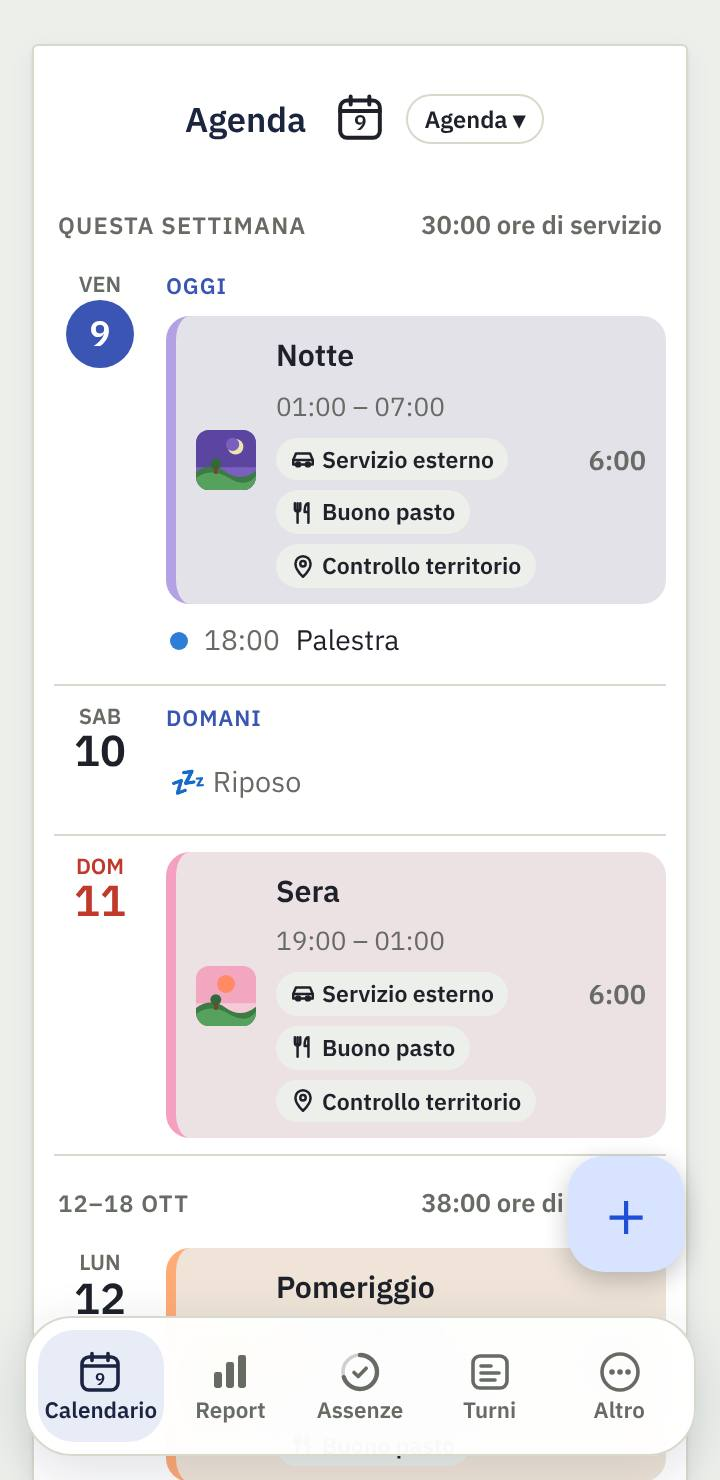
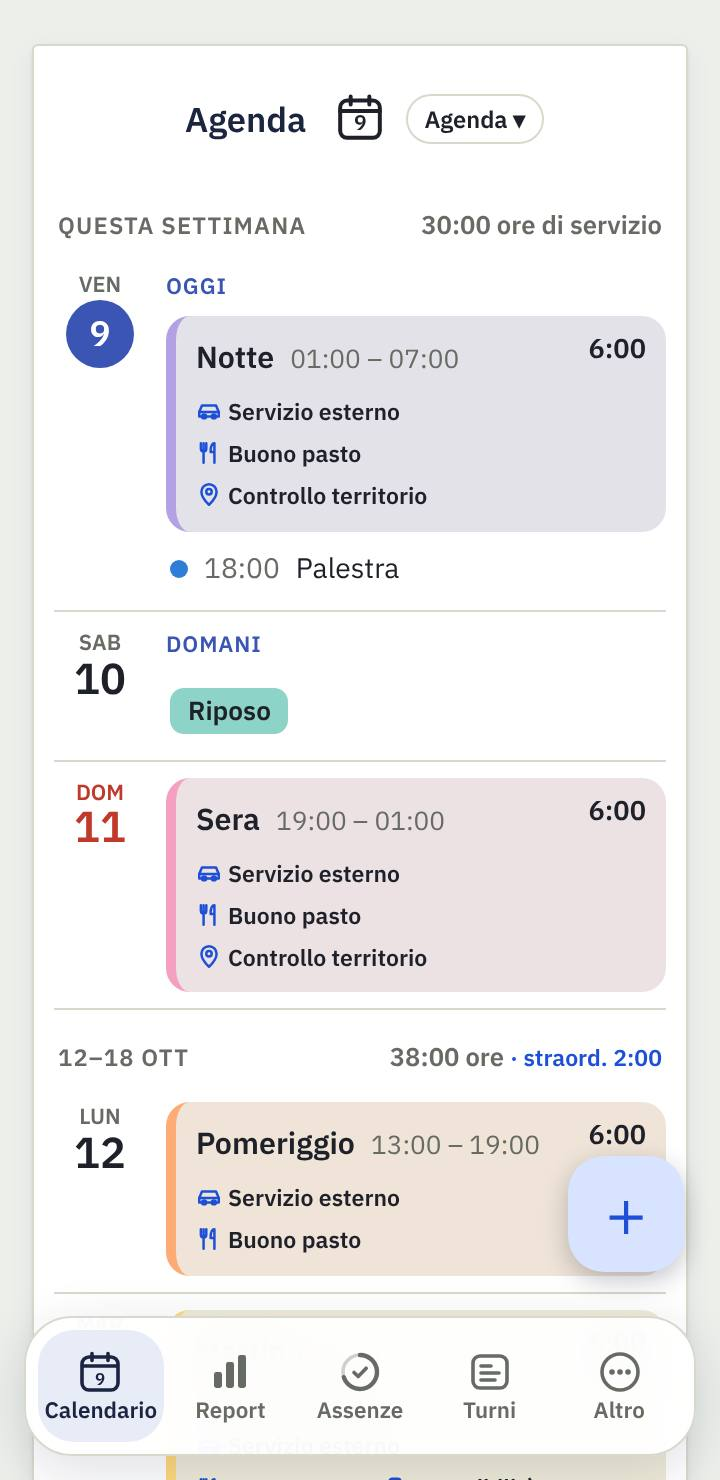
Turni 3.8.13: privacy per Detta a voce, guida con Detta a voce, Settimana e Agenda
Claude-Session: https://claude.ai/code/session_01PSeREU5gDDB7bRrUAU7GkJ

diff --git a/guida-turni.html b/guida-turni.html
@@ -23,8 +23,8 @@ a{color:#2E4A8F}
 @media(max-width:600px){.sez{grid-template-columns:1fr}.sez img{width:min(240px,70vw);margin:4px auto 0}.tab td:first-child{white-space:normal}}
 </style></head><body>
 <h1>Guida a Turni & Accessorio PS</h1>
-<p class="agg">Come si usa l'app, passo per passo · aggiornata alla versione 3.8.12</p>
-<nav><a href="#inizio">Primi passi</a><a href="#calendario">Calendario</a><a href="#giorno">Il giorno e le indennità</a><a href="#sequenza">Turni</a><a href="#report">Report</a><a href="#assenze">Assenze</a><a href="#altro">Altro</a><a href="#promemoria">Promemoria e widget</a><a href="#backup">Backup</a><a href="#domande">Domande</a></nav>
+<p class="agg">Come si usa l'app, passo per passo · aggiornata alla versione 3.8.13</p>
+<nav><a href="#inizio">Primi passi</a><a href="#calendario">Calendario</a><a href="#voce">Detta a voce</a><a href="#giorno">Il giorno e le indennità</a><a href="#sequenza">Turni</a><a href="#report">Report</a><a href="#assenze">Assenze</a><a href="#altro">Altro</a><a href="#promemoria">Promemoria e widget</a><a href="#backup">Backup</a><a href="#domande">Domande</a></nav>
 
 <h2 id="inizio">1. Primi passi</h2>
 <div class="sez"><div>
@@ -42,13 +42,13 @@ a{color:#2E4A8F}
 <h2 id="calendario">2. Calendario</h2>
 <div class="sez"><div>
 <ul>
-<li><b>Tocca un giorno</b> per vederlo sotto il calendario. <b>Tocca il turno</b> del giorno (la riga con la barra colorata) per aprire il giorno completo (vedi il capitolo successivo).</li>
-<li>Il pulsante <b>＋</b> in basso a destra apre: <b>Evento</b>, <b>Turno o assenza</b> (turno, assenza o indennità; "Rientro" aggiunge un secondo turno nello stesso giorno), <b>Straordinario</b> e <b>Modifica il giorno</b>.</li>
+<li><b>Tocca un giorno</b> per vederlo sotto il calendario. <b>Tocca il turno</b> del giorno (la riga con la barra colorata) per aprire il giorno completo (vedi il capitolo 4).</li>
+<li>Il pulsante <b>＋</b> in basso a destra apre: <b>Detta a voce</b> (vedi sotto), <b>Evento</b>, <b>Turno o assenza</b> (turno, assenza o indennità; "Rientro" aggiunge un secondo turno nello stesso giorno), <b>Straordinario</b> e <b>Modifica il giorno</b>.</li>
 <li><b>Scorri col dito</b> a destra o a sinistra per cambiare mese (o settimana, o giorno, a seconda della vista). Il pulsante con il numero di oggi in alto riporta subito a <b>oggi</b>.</li>
 <li>Sotto il giorno selezionato vedi anche il <b>nome della festività</b> (Natale, Pasqua, 2 giugno…).</li>
 <li>Se cambi o cancelli un turno per sbaglio, tocca <b>Annulla</b> nell'avviso che compare in basso: il calendario torna com'era.</li>
 <li>Dal pulsantino <b>Mese ▾</b>, con <b>Condividi il mese</b> mandi il calendario del mese come immagine (WhatsApp, email…).</li>
-<li>Con il pulsantino <b>Mese ▾</b> in alto scegli la vista: <b>Giorno</b> (la giornata a ore), <b>Settimana</b> (un giorno per riga, con le ore della settimana), <b>Mese</b> o <b>Agenda</b>. L'app ricorda l'ultima scelta.</li>
+<li>Con il pulsantino <b>Mese ▾</b> in alto scegli la vista: <b>Giorno</b> (la giornata a ore), <b>Settimana</b> (un giorno per riga con orario, indennità, straordinario, servizio svolto ed eventi, e il totale delle ore), <b>Mese</b> o <b>Agenda</b>. L'app ricorda l'ultima scelta.</li>
 <li><b>Evento</b> aggiunge visite, corsi, appuntamenti, anche ripetuti, con promemoria. Tocca un'ora nella giornata per scegliere l'orario. In <b>Altre opzioni</b> trovi colore, luogo, note e <b>Suona anche in silenzioso</b>: 10 secondi di suono e vibrazione, anche con il telefono in silenzioso.</li>
 <li>I giorni del mese prima e dopo si vedono sbiaditi; toccandoli si passa a quel mese con il giorno già selezionato.</li>
 </ul>
@@ -57,10 +57,26 @@ a{color:#2E4A8F}
 <p>Ogni casella mostra il turno (Sera, Pom., Notte…) e, se c'è, l'evento. Le indennità del giorno le vedi toccando il giorno, scritte per esteso nel riquadro sotto il calendario (per esempio "2 buoni pasto"), e nell'agenda.</p>
 <h3>Agenda</h3>
 <div class="sez"><div>
-<p>Dal pulsantino <b>Mese ▾</b> scegli <b>Agenda</b> (ha preso il posto di "Prossimi 7 giorni"): i prossimi 14 giorni in elenco, con turno, orario, ore, indennità ed eventi e il totale delle ore di ogni settimana.</p>
+<p>Dal pulsantino <b>Mese ▾</b> scegli <b>Agenda</b> (ha preso il posto di "Prossimi 7 giorni"): i prossimi 14 giorni in elenco, con turno, orario, ore, indennità, servizio svolto, festività ed eventi e il totale delle ore di ogni settimana.</p>
+<p>In Settimana e in Agenda lo <b>straordinario</b> si vede a parte: per esempio <b>6:00 +2:00</b> vuol dire 6 ore di turno e 2 di straordinario. Toccando un evento si apre per modificarlo.</p>
 </div><img src="turni/guida/agenda.jpg" alt="Agenda dei prossimi 14 giorni" loading="lazy"></div>
 
-<h2 id="giorno">3. Il giorno e le indennità</h2>
+<h2 id="voce">3. Detta a voce</h2>
+<div class="sez"><div>
+<p>Tocca <b>＋ → Detta a voce</b> e parla. L'app ti mostra cosa ha capito: controlli, togli con ✕ le righe che non vanno e tocchi <b>Salva</b>. Niente viene salvato prima. Se sbagli, c'è <b>Annulla</b>.</p>
+<p>Puoi dire per esempio:</p>
+<ul>
+<li><b>Turni</b>: "domani notte", "lunedì riposo, martedì mattina", "il 20 dalle 8 alle 14". Vale il nome dei tuoi turni.</li>
+<li><b>Assenze</b>: "ferie dal 3 al 10 dicembre" (i giorni di riposo restano riposi e l'app ti dice quanto congedo ti resta), "venerdì riposo compensativo", "lunedì 104".</li>
+<li><b>Straordinario</b>: "oggi straordinario 2 ore dopo", "domani un'ora e mezza di straordinario prima".</li>
+<li><b>Indennità</b>: "domani sera con reperibilità", "servizio esterno".</li>
+<li><b>Eventi</b>: "giovedì alle 10 dentista", "sabato compleanno di Marco".</li>
+</ul>
+<p>Più cose insieme vanno bene: "ferie dal 3 al 10 dicembre, giovedì alle 10 dentista e oggi straordinario 2 ore dopo". Senza un giorno, vale il giorno selezionato nel calendario.</p>
+<div class="cons">🔒 La voce è riconosciuta <b>sul telefono, senza internet</b>, e l'app non salva l'audio. Se manca l'italiano per l'uso senza internet, l'app ti spiega come scaricarlo (si fa una volta sola); oppure puoi scegliere <b>Usa internet per questa volta</b>. La prima volta Android chiede il permesso del microfono.</div>
+</div><img src="turni/guida/voce.jpg" alt="Detta a voce: Ho capito così" loading="lazy"></div>
+
+<h2 id="giorno">4. Il giorno e le indennità</h2>
 <div class="sez"><div>
 <p>Toccando il turno del giorno si apre la scheda del giorno. In alto scegli <b>Turno</b>, <b>Riposo</b> o <b>Assenza</b>.</p>
 <ul>
@@ -89,7 +105,7 @@ a{color:#2E4A8F}
 </table>
 <p class="nota">Gli importi sono quelli delle <a href="tabelle-turni.html">tabelle ufficiali</a>. La produttività collettiva arriva una volta l'anno, a luglio, in base ai giorni di presenza dell'anno prima.</p>
 
-<h2 id="sequenza">4. Turni</h2>
+<h2 id="sequenza">5. Turni</h2>
 <div class="sez"><div>
 <h3 style="margin-top:0">Turni automatici</h3>
 <p>In <b>Turni → Genera turni automaticamente</b>:</p>
@@ -121,7 +137,7 @@ a{color:#2E4A8F}
 </ol>
 <div class="cons">💡 Prima crea un calendario a parte chiamato "Turni" e importa lì: se cambi turnazione, lo cancelli e lo rifai senza toccare il resto. Se ti arriva un'email prima di ogni turno, la manda Google Calendar: si toglie dalle "Notifiche evento" di quel calendario.</div>
 
-<h2 id="report">5. Report</h2>
+<h2 id="report">6. Report</h2>
 <div class="sez"><div>
 <ul>
 <li>In alto: quanto <b>arriva sul conto</b> nel mese, con stipendio, indennità e tasse. Con ‹ › cambi mese.</li>
@@ -142,7 +158,7 @@ a{color:#2E4A8F}
 </ul>
 </div><img src="turni/guida/cedolino.jpg" alt="Cedolino stimato" loading="lazy"></div>
 
-<h2 id="assenze">6. Assenze</h2>
+<h2 id="assenze">7. Assenze</h2>
 <div class="sez"><div>
 <ul>
 <li>In alto i <b>Giorni di partenza</b>, con <b>Modifica</b>.</li>
@@ -174,7 +190,7 @@ a{color:#2E4A8F}
 </table>
 <p>Con <b>Nuova assenza</b> in alto (o <b>＋ Aggiungi un'assenza tua</b> in fondo) crei una voce tua: poi nella sua scheda le dai nome e quanto spetta.</p>
 
-<h2 id="altro">7. Altro</h2>
+<h2 id="altro">8. Altro</h2>
 <div class="sez"><div>
 <ul>
 <li><b>Anagrafica</b>: qualifica (con il distintivo del grado), anni, regione, addizionale comunale, famiglia, sindacato con la quota al mese; facoltativi il reddito e l'addizionale regionale dell'anno scorso (dalla CU). Se manca qualcosa che serve, il Report te lo dice.</li>
@@ -227,7 +243,7 @@ a{color:#2E4A8F}
 <li>Sul telefono nuovo: <b>📥 Ripristina da Drive</b> e scegli la copia.</li>
 </ol>
 
-<h2 id="domande">8. Domande frequenti</h2>
+<h2 id="domande">9. Domande frequenti</h2>
 <details><summary>Ho cambiato telefono: come recupero i dati?</summary><p>Sul telefono vecchio: <b>Altro → Backup → Esporta backup</b> e manda il file sul telefono nuovo (oppure usa il backup su Google Drive). Sul telefono nuovo installa l'app e usa <b>Importa</b> (o <b>Ripristina da Drive</b>).</p></details>
 <details><summary>Perché il netto non è uguale alla mia busta paga?</summary><p>L'app fa una stima con le tabelle ufficiali. Per avvicinarla al cedolino: in Anagrafica scrivi il <b>reddito</b> e l'<b>addizionale regionale dell'anno scorso</b> (dalla CU), l'<b>addizionale comunale</b> e la <b>quota sindacale</b>. Arretrati, conguagli di fine anno e rimborsi del 730 restano fuori: li puoi aggiungere con <b>± Conguaglio</b> nel cedolino.</p></details>
 <details><summary>Non vedo l'indennità di controllo del territorio</summary><p>Controlla che il turno abbia almeno 3 ore tra le 18 e le 22 o tra le 22 e le 6, e che non ci sia anche l'ordine pubblico. Toccando il giorno la vedi nel riquadro sotto il calendario.</p></details>

diff --git a/privacy-turni.html b/privacy-turni.html
@@ -16,7 +16,7 @@
 <body>
 
 <h1>Privacy Policy — Turni & Accessorio PS</h1>
-<p class="aggiornato">Ultimo aggiornamento: 30 ottobre 2026</p>
+<p class="aggiornato">Ultimo aggiornamento: 1 novembre 2026</p>
 
 <p>"Turni & Accessorio PS" ("l'app") è un'applicazione indipendente, non ufficiale e non affiliata
 alla Polizia di Stato né ad alcun ente pubblico, pensata per calcolare turni, indennità e una
@@ -105,6 +105,22 @@ automatica) solo mentre è aperta, per passare da sola dal tema chiaro a quello 
 luce non viene salvato né inviato a nessuno, e non serve alcun permesso. Se il telefono non ha il
 sensore, l'app usa l'orario di alba e tramonto, calcolato sul telefono senza la tua posizione.</p>
 
+<h2>Detta a voce (facoltativo)</h2>
+<p>Dal pulsante ＋ puoi scegliere "Detta a voce" e dire, per esempio, "domani notte". Solo in quel
+momento l'app usa il <strong>microfono</strong>, che Android ti chiede di autorizzare la prima volta.</p>
+<ul>
+  <li>La voce viene trasformata in testo dal <strong>riconoscimento vocale del telefono</strong>
+  (di solito quello di Google). L'app chiede di farlo <strong>sul telefono, senza internet</strong>:
+  in questo caso la voce non esce dal dispositivo.</li>
+  <li>Se sul telefono manca la lingua italiana per l'uso senza internet, l'app te lo dice e ti
+  propone di scaricarla. Solo se scegli tu "Usa internet per questa volta", la voce viene inviata al
+  servizio di riconoscimento di Google per diventare testo, secondo l'informativa di Google.</li>
+  <li>L'app <strong>non registra e non salva l'audio</strong>: riceve solo il testo, lo usa per
+  capire cosa vuoi inserire e te lo mostra. Niente viene salvato finché non tocchi "Salva".</li>
+  <li>Puoi togliere il permesso del microfono in qualsiasi momento dalle impostazioni di Android:
+  l'app continua a funzionare, senza la dettatura.</li>
+</ul>
+
 <h2>Aggiornamento delle tabelle economiche</h2>
 <p>Circa una volta a settimana, se c'è la connessione, l'app scarica dal sito il file pubblico
 <a href="turni/tabelle.json">turni/tabelle.json</a> con i valori delle tabelle (stipendi, indennità,
@@ -139,6 +155,7 @@ alcun dato della carta o del metodo di pagamento, che restano gestiti esclusivam
   <li>Non utilizza strumenti di analisi o tracciamento (analytics)</li>
   <li>Non vende né condivide i tuoi dati con terze parti</li>
   <li>Non raccoglie dati di localizzazione</li>
+  <li>Non registra e non conserva la tua voce</li>
   <li>Non invia a nessuno i tuoi dati economici (reddito, stipendio, cedolino stimato)</li>
   <li>Non richiede né conserva il tuo nome, indirizzo email di contatto, codice fiscale o altri
   dati identificativi diretti</li>
